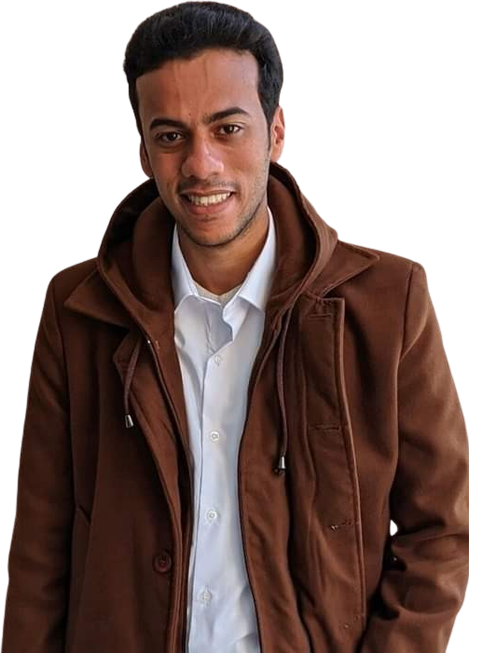
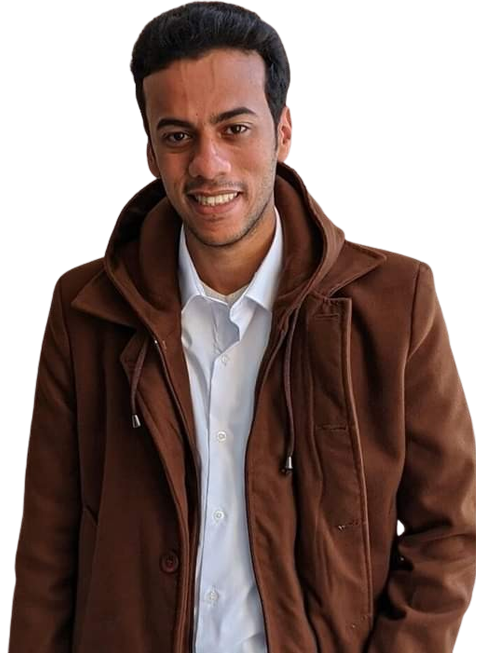
all

diff --git a/src/Component/HeroSection.jsx b/src/Component/HeroSection.jsx
@@ -1,36 +1,60 @@
 import React from "react";
+import { useState, useEffect } from "react";
+
 import useUserData from "./useUserData";
-import "../assets/Css/Hero.css"
+import "../assets/Css/Main.css";
+import { width } from "@fortawesome/free-solid-svg-icons/fa0";
 const HeroSection = () => {
   var user = useUserData();
-  const imageSrc = user.id === 2 
-  ? "Imgs/nada.png" 
-  : "Imgs/bakr.png";
+  const [isMobile, setIsMobile] = useState(window.innerWidth < 500);
+
+  const boxStyle = user.id === 1 
+  ? {width:"75%" } 
+  : user.id === 2 
+  ? {width:"90% "} 
+  : { backgroundColor: "gray", color: "black" };
+
+
+  useEffect(() => {
+    const handleResize = () => {
+      setIsMobile(window.innerWidth < 500);
+    };
+
+    // إضافة حدث تغيير الحجم
+    window.addEventListener("resize", handleResize);
+
+    // تنظيف الحدث عند الخروج
+    return () => {
+      window.removeEventListener("resize", handleResize);
+    };
+  }, []);
   if (!user) {
     return <div>Loading...</div>;
   }
-
   return (
     <>
-    <div>
-    <div className="container hero">
-      <div className="row justify-content-around ">
-        <div className="col-lg-6 content">
-          <h1>
-            Hello, I'm {user.name}, {user.jobTitle}
-          </h1>
-         <div>
-         <button>Get Start</button>
-         </div>
-          {/* <p>{user.objective}</p> */}
-        </div>
-        <div className="col-lg-5 imgHero">
-          <img src={imageSrc}></img>
-          <img src="Imgs/fB.png" className="back"></img>
+      <div>
+        <div className="container hero">
+          <div className="row justify-content-around ">
+            <div className="col-lg-5 content">
+              <h1>
+                Hello, I'm <span>{user.name}</span>, {user.jobTitle}
+              </h1>
+              <div>
+                <button>Get Start</button>
+              </div>
+              {/* <p>{user.objective}</p> */}
+            </div>
+            <div className="col-lg-6 imgHero">
+              <img src={user.img} style={boxStyle}></img>
+              <img
+                // src="Imgs/fB.png"
+                src={isMobile ? "Imgs/CB.png" : "Imgs/fB.png"} className="back"
+              ></img>
+            </div>
+          </div>
         </div>
       </div>
-    </div>
-    </div>
     </>
   );
 };

diff --git a/src/assets/Css/Main.css b/src/assets/Css/Main.css
@@ -1,3 +1,14 @@
+.ALLNav {
+  background-color: #213555;
+}
+.ALLNav a {
+  color: #fff !important;
+}
+
+.ALLNav li a {
+  font-size: 20px !important;
+}
+
 .hero {
   padding-top: 3.5rem;
 }
@@ -22,15 +33,19 @@
 .hero .content h1 {
   font-size: 3.8rem;
 }
+.hero .content h1 span {
+  color: #55679c;
+}
 .hero .imgHero {
   /* background-image: url("Imgs/fB.png"); */
   position: relative;
   text-align: center;
+  /* margin-top: 20px; */
 }
 .hero .imgHero img:nth-child(1) {
   z-index: 1;
   position: absolute;
-  width: 88%;
+  width: 80%;
   left: 12%;
   top: -1%;
   border-radius: 0 0 101px 83px;
@@ -38,17 +53,37 @@
 .hero .imgHero .back {
   position: absolute;
   top: 20%;
-  left: -35px;
+  left: 0;
   z-index: 0;
-  width: 126%;
+  width: 100%;
 }
+/*########### mobile size   ####################### */
 
 @media (max-width: 500px) {
-  hero .imgHero .back {
-    left: -35px;
-    width: 95%;
-    .hero .content h1 {
-      font-size: 3.8rem;
-    }
+  .navbar-light .navbar-brand {
+    font-size: 16px;
+  }
+  .hero {
+    padding-top: 0.5rem;
+  }
+  .hero .imgHero .back {
+    left: 0;
+    width: 100%;
+    top: 99px;
+  }
+  .hero .content {
+    align-items: center;
+  }
+  .hero .content h1 {
+    font-size: 2.8rem;
+    text-align: center;
+    padding: 10px 0;
+    line-height: 55px;
+  }
+
+  .hero .imgHero img:nth-child(1) {
+    width: 83%;
+    left: 9%;
+    top: -15px;
   }
 }

diff --git a/src/Component/Manual.jsx b/src/Component/Manual.jsx
@@ -5,7 +5,7 @@ export  var data2=[
                    "nickname":"ahmed",
                    "jobTitle": "Full stack web developer",
                    "age": 24,
-                   "image": "images/personal/profile-img.jpg",
+                   "img": "Imgs/bakr.png",
                    "objective": "To obtain a challenging data scientist position in a dynamic and innovative organization where I can use my technical and analytical skills.",
                    "contacts": {
                        "phone": "201113284597",
@@ -175,6 +175,7 @@ export  var data2=[
                    "name": "Nada Harby Motawea",
                    "jobTitle": "Front-End Developer",
                    "nickname":"nada",
+                   "img":"Imgs/nada.png",
                    "contacts": {
                        "phone": "+201155226576",
                        "email": "nada123harby@gmail.com",
